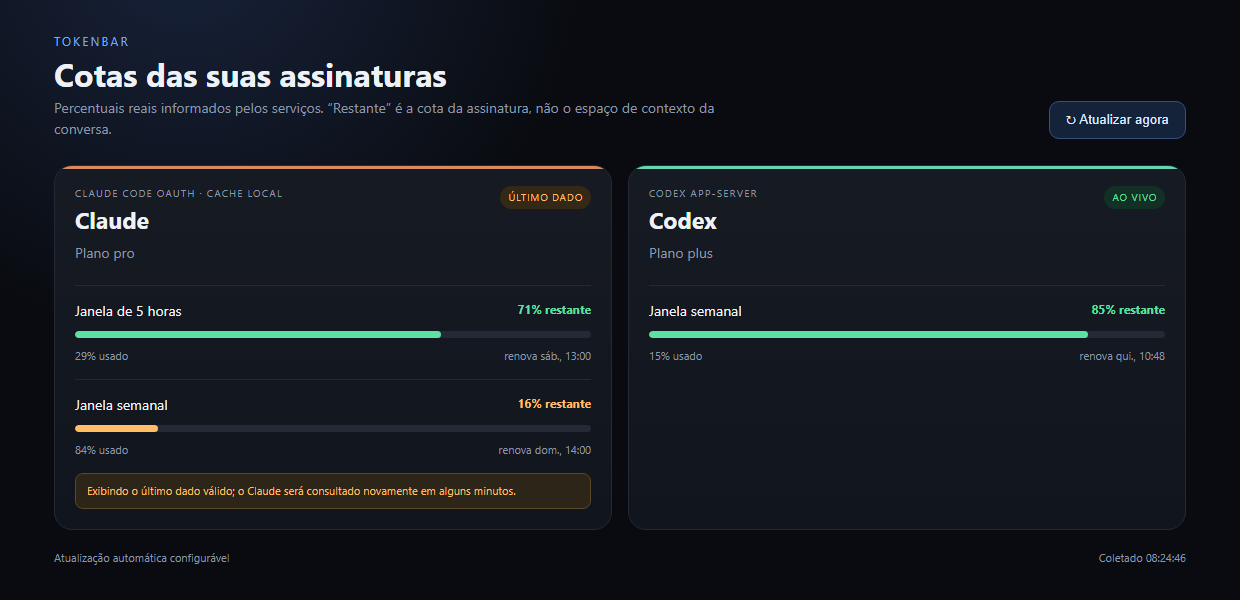
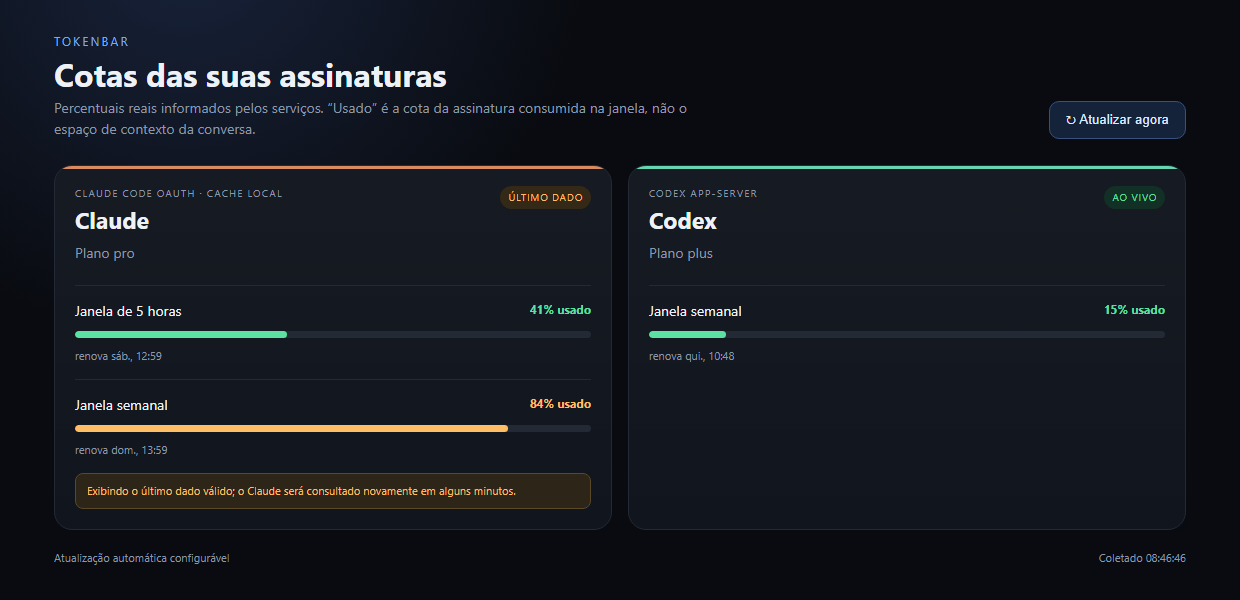
Unifica o painel da extensão com a bandeja: mostra o percentual usado
A extensão mostrava a cota restante e a bandeja, a usada. O mesmo estado
aparecia como "16% restante" num lugar e "84%" no outro, e a barra da
extensão esvaziava enquanto a da bandeja enchia. Quem usa os dois tinha de
converter de cabeça, e nenhum dos dois batia com o /usage do Claude Code.

Agora as duas interfaces mostram o percentual usado:

- barra de status e tooltip passam a exibir o usado, e a janela mais
  crítica passa a ser a de maior consumo (ordenação invertida);
- o painel exibe "X% usado" como número principal e a barra enche conforme
  a cota é consumida. A linha secundária perdeu o número redundante e ficou
  só com a renovação;
- as faixas de cor foram alinhadas às da bandeja — verde abaixo de 70%,
  âmbar a partir de 70%, vermelho a partir de 90% — em toneFor(), que
  espelha Get-Tone do tokenbar.ps1. Os cortes anteriores da extensão eram
  equivalentes, mas escritos sobre o restante.

Cinco asserções novas cobrem o número exibido e os três cortes de cor, já
que agora eles são contrato entre as duas interfaces. Suíte: 12 → 16.

A captura do README foi regerada e a nota sobre a "diferença de sinal"
virou o registro de que os dois números são o mesmo.

diff --git a/src/webview/render.ts b/src/webview/render.ts
@@ -8,12 +8,11 @@ import { UsageSnapshot } from '../usage';
 export function renderDashboard(snapshot: UsageSnapshot, { interactive = true } = {}): string {
     const cards = snapshot.providers.map(provider => {
       const windows = provider.windows.map(window => {
-        const remaining = Math.max(0, 100 - window.usedPercent);
-        const tone = remaining <= 10 ? 'danger' : remaining <= 30 ? 'warning' : 'healthy';
+        const tone = toneFor(window.usedPercent);
         return `<article class="window">
-          <div class="window-head"><span>${escapeHtml(window.label)}</span><strong class="${tone}">${remaining.toFixed(0)}% restante</strong></div>
-          <div class="track"><div class="fill ${tone}" style="width:${remaining}%"></div></div>
-          <div class="meta"><span>${window.usedPercent.toFixed(0)}% usado</span><span>${formatReset(window.resetsAt)}</span></div>
+          <div class="window-head"><span>${escapeHtml(window.label)}</span><strong class="${tone}">${window.usedPercent.toFixed(0)}% usado</strong></div>
+          <div class="track"><div class="fill ${tone}" style="width:${window.usedPercent}%"></div></div>
+          <div class="meta"><span>${formatReset(window.resetsAt)}</span></div>
           ${window.detail ? `<div class="detail">${escapeHtml(window.detail)}</div>` : ''}
         </article>`;
       }).join('');
@@ -41,7 +40,12 @@ export function renderDashboard(snapshot: UsageSnapshot, { interactive = true } 
 :root{color-scheme:dark;--bg:#090b10;--panel:#11151d;--border:#232a36;--muted:#8c97a8;--text:#eef2f7;--green:#5de1a2;--amber:#ffbd66;--red:#ff6b78}
 *{box-sizing:border-box}body{margin:0;background:radial-gradient(circle at 15% -10%,#18233b 0,transparent 32%),var(--bg);color:var(--text);font:14px/1.5 -apple-system,BlinkMacSystemFont,"Segoe UI",sans-serif}.shell{max-width:1180px;margin:auto;padding:32px 24px 60px}.top{display:flex;align-items:flex-end;justify-content:space-between;gap:24px;margin-bottom:26px}.brand{font-size:12px;letter-spacing:.18em;text-transform:uppercase;color:#79a9ff}.top h1{font-size:32px;line-height:1.1;margin:6px 0}.subtitle{color:var(--muted);max-width:680px}.refresh{border:1px solid #36517d;background:#15233a;color:#dce9ff;border-radius:10px;padding:10px 16px;cursor:pointer}.grid{display:grid;grid-template-columns:repeat(2,minmax(0,1fr));gap:16px}.provider{position:relative;background:linear-gradient(180deg,rgba(255,255,255,.025),transparent),var(--panel);border:1px solid var(--border);border-radius:18px;padding:20px;min-height:260px;overflow:hidden}.provider:before{content:"";position:absolute;inset:0 0 auto;height:3px;background:#888}.provider.claude:before{background:#d98b5f}.provider.codex:before{background:#65d6b1}header{display:flex;justify-content:space-between;gap:12px;align-items:flex-start}.eyebrow{font-size:10px;color:var(--muted);text-transform:uppercase;letter-spacing:.12em}h2{font-size:23px;margin:2px 0 0}.badge{font-size:10px;text-transform:uppercase;letter-spacing:.08em;border-radius:999px;padding:4px 8px;background:#222}.badge.ok{color:var(--green);background:#123026}.badge.stale{color:var(--amber);background:#342817}.badge.error{color:var(--red);background:#341920}.badge.unavailable{color:var(--amber);background:#342817}.plan{color:var(--muted);margin-top:4px}.windows{display:flex;flex-direction:column;gap:15px;margin-top:22px}.window{padding-top:14px;border-top:1px solid var(--border)}.window-head,.meta{display:flex;justify-content:space-between;gap:10px}.window-head strong{font-size:12px}.track{height:7px;background:#242a35;border-radius:99px;margin:10px 0;overflow:hidden}.fill{height:100%;border-radius:99px}.healthy{color:var(--green)}.fill.healthy{background:var(--green)}.warning{color:var(--amber)}.fill.warning{background:var(--amber)}.danger{color:var(--red)}.fill.danger{background:var(--red)}.meta,.detail{font-size:11px;color:var(--muted)}.detail{margin-top:4px}.empty{color:var(--muted);padding:22px 0}.notice{margin-top:14px;padding:9px 11px;border:1px solid #5a4827;border-radius:8px;background:#2d2517;color:var(--amber);font-size:11px}.footer{display:flex;justify-content:space-between;color:var(--muted);font-size:11px;margin-top:20px}@media(max-width:900px){.grid{grid-template-columns:1fr}.top{align-items:flex-start;flex-direction:column}}
 @media(min-width:901px){.grid{grid-template-columns:repeat(2,minmax(0,1fr))}}
-</style></head><body><main class="shell"><div class="top"><div><div class="brand">TokenBar</div><h1>Cotas das suas assinaturas</h1><div class="subtitle">Percentuais reais informados pelos serviços. “Restante” é a cota da assinatura, não o espaço de contexto da conversa.</div></div><button class="refresh">↻ Atualizar agora</button></div><div class="grid">${cards}</div><div class="footer"><span>Atualização automática configurável</span><span>Coletado ${formatCollected(snapshot.collectedAt)}</span></div></main>${script}</body></html>`;
+</style></head><body><main class="shell"><div class="top"><div><div class="brand">TokenBar</div><h1>Cotas das suas assinaturas</h1><div class="subtitle">Percentuais reais informados pelos serviços. “Usado” é a cota da assinatura consumida na janela, não o espaço de contexto da conversa.</div></div><button class="refresh">↻ Atualizar agora</button></div><div class="grid">${cards}</div><div class="footer"><span>Atualização automática configurável</span><span>Coletado ${formatCollected(snapshot.collectedAt)}</span></div></main>${script}</body></html>`;
+}
+
+/** Mesmos cortes do indicador da bandeja (tray/tokenbar.ps1, Get-Tone). */
+function toneFor(usedPercent: number): string {
+  return usedPercent >= 90 ? 'danger' : usedPercent >= 70 ? 'warning' : 'healthy';
 }
 
 function createNonce(): string {

diff --git a/src/test/test.ts b/src/test/test.ts
@@ -55,7 +55,25 @@ assert(/script-src 'nonce-[^']+'/.test(htmlInterativo), 'painel do VS Code decla
 assert(htmlInterativo.includes('acquireVsCodeApi'), 'painel do VS Code inclui o script de refresh');
 assert(htmlPreview.includes("script-src 'none'"), 'preview declara CSP sem script');
 assert(!htmlPreview.includes('acquireVsCodeApi'), 'preview não chama a API do VS Code');
-assert(htmlInterativo.includes('70% restante'), 'painel converte usado em restante');
+assert(htmlInterativo.includes('30% usado'), 'painel mostra o percentual usado, como a bandeja');
+assert(!htmlInterativo.includes('restante'), 'painel não fala mais em restante');
+
+const tons: UsageSnapshot = {
+  collectedAt: new Date().toISOString(),
+  providers: [{
+    provider: 'codex', label: 'Codex', status: 'ok', source: 'Codex app-server',
+    collectedAt: new Date().toISOString(),
+    windows: [
+      { id: 'a', label: 'tranquila', usedPercent: 69 },
+      { id: 'b', label: 'atencao', usedPercent: 70 },
+      { id: 'c', label: 'critica', usedPercent: 90 }
+    ]
+  }]
+};
+const htmlTons = renderDashboard(tons);
+assert(htmlTons.includes('width:69%') && /healthy">69% usado/.test(htmlTons), 'abaixo de 70% usado fica verde');
+assert(/warning">70% usado/.test(htmlTons), 'a partir de 70% usado fica âmbar, como a bandeja');
+assert(/danger">90% usado/.test(htmlTons), 'a partir de 90% usado fica vermelho, como a bandeja');
 
 console.log(`\n${passed} testes passaram; ${failed} falharam.`);
 process.exitCode = failed ? 1 : 0;

diff --git a/src/extension.ts b/src/extension.ts
@@ -22,11 +22,11 @@ export async function activate(context: vscode.ExtensionContext): Promise<void> 
       return;
     }
     const mostUrgent = providers
-      .flatMap(provider => provider.windows.map(window => ({ provider: provider.label, remaining: Math.max(0, 100 - window.usedPercent) })))
-      .sort((a, b) => a.remaining - b.remaining)[0];
-    statusBar.text = `$(pulse) ${mostUrgent.provider} ${mostUrgent.remaining.toFixed(0)}%`;
+      .flatMap(provider => provider.windows.map(window => ({ provider: provider.label, used: window.usedPercent })))
+      .sort((a, b) => b.used - a.used)[0];
+    statusBar.text = `$(pulse) ${mostUrgent.provider} ${mostUrgent.used.toFixed(0)}%`;
     statusBar.tooltip = new vscode.MarkdownString(providers.map(provider => {
-      const lines = provider.windows.map(window => `- ${window.label}: **${Math.max(0, 100 - window.usedPercent).toFixed(0)}% restante**`);
+      const lines = provider.windows.map(window => `- ${window.label}: **${window.usedPercent.toFixed(0)}% usado**`);
       return `### ${provider.label}\n${lines.join('\n')}`;
     }).join('\n\n'));
   };

diff --git a/README.md b/README.md
@@ -47,10 +47,10 @@ code --install-extension tokenbar.vsix
 
 ## Uso
 
-![Painel da extensão: um cartão por provedor, cada janela de cota com barra, percentual restante, percentual usado e horário de renovação.](docs/imagens/painel-vscode.png)
+![Painel da extensão: um cartão por provedor, cada janela de cota com barra, percentual usado e horário de renovação.](docs/imagens/painel-vscode.png)
 
 Depois de ativada, a extensão mostra na barra de status a janela **mais crítica** entre
-todos os provedores, no formato `Claude 38%` — onde o número é a cota **restante**.
+todos os provedores, no formato `Claude 84%` — onde o número é a cota já **usada** na janela.
 
 | Comando | Ação |
 | --- | --- |
@@ -99,8 +99,9 @@ wscript tray\tokenbar.vbs
 - "Iniciar com o Windows" cria/remove um atalho `TokenBar.lnk` na pasta de Inicialização
   do usuário.
 
-> **Atenção à diferença de sinal:** o painel da extensão mostra o percentual **restante**;
-> o painel da bandeja mostra o percentual **usado** (igual ao `/usage` do Claude Code).
+> Extensão e bandeja mostram o mesmo número: o percentual **usado** na janela, igual ao
+> `/usage` do Claude Code. As faixas de cor também são as mesmas — verde abaixo de 70%,
+> âmbar a partir de 70%, vermelho a partir de 90%.
 
 ## Como os dados são obtidos
 

diff --git a/docs/arquitetura.md b/docs/arquitetura.md
@@ -78,9 +78,14 @@ E cada `UsageWindow`:
 }
 ```
 
-Regra de ouro: **`usedPercent` é sempre o percentual usado**. A conversão para "restante"
-acontece só na camada de apresentação da extensão (`100 - usedPercent`). A bandeja mostra
-`usedPercent` direto, para bater com o `/usage` do Claude Code.
+Regra de ouro: **`usedPercent` é sempre o percentual usado**, do coletor até a tela. Nenhuma
+camada de apresentação inverte o sinal — barra de status, painel da extensão e bandeja
+mostram `usedPercent` direto, para bater com o `/usage` do Claude Code.
+
+As faixas de cor derivam do mesmo número e são iguais nas duas interfaces: verde abaixo de
+70%, âmbar a partir de 70%, vermelho a partir de 90%. Implementadas em `toneFor()`
+(`src/webview/render.ts`) e `Get-Tone` (`tray/tokenbar.ps1`) — são duas linguagens, então
+os cortes estão duplicados; ao mexer numa, mexa na outra.
 
 ### Distinção de estados
 

diff --git a/CONTRIBUTING.md b/CONTRIBUTING.md
@@ -81,7 +81,9 @@ O projeto não tem linter configurado; siga o que já está lá:
 Essas não são preferência estética; quebrá-las quebra o comportamento do app:
 
 1. **`usedPercent` é sempre o percentual usado**, 0–100, passando por `clampPercent()`.
-   A conversão para "restante" é responsabilidade da camada de interface.
+   Nenhuma camada inverte o sinal: barra de status, painel e bandeja mostram esse número
+   direto, para bater com o `/usage` do Claude Code. As faixas de cor (70% âmbar, 90%
+   vermelho) estão duplicadas em `toneFor()` e `Get-Tone` — mexeu numa, mexa na outra.
 2. **Não remova o piso de 5 minutos nem o backoff de 429** do coletor Claude. Eles evitam
    martelar um endpoint não documentado.
 3. **Pré-requisito ausente é `unavailable`, não `error`.** Use o helper `unavailable()`.

diff --git a/CHANGELOG.md b/CHANGELOG.md
@@ -21,6 +21,11 @@ adota [Versionamento Semântico](https://semver.org/lang/pt-BR/).
 
 ### Alterado
 
+- **A extensão passa a mostrar o percentual _usado_, não o restante** — o mesmo número da
+  bandeja e do `/usage` do Claude Code. Vale para a barra de status, o tooltip e o painel;
+  a barra de progresso agora enche conforme a cota é consumida, em vez de esvaziar. As
+  faixas de cor da extensão foram alinhadas às da bandeja: verde abaixo de 70%, âmbar a
+  partir de 70%, vermelho a partir de 90%.
 - O HTML do painel saiu de `src/webview/dashboard.ts` para `src/webview/render.ts`, agora
   livre de `import vscode` — é o que permite renderizá-lo fora do editor. O `dashboard.ts`
   segue responsável pelo `WebviewPanel` e pelas mensagens. Sem mudança de comportamento.
